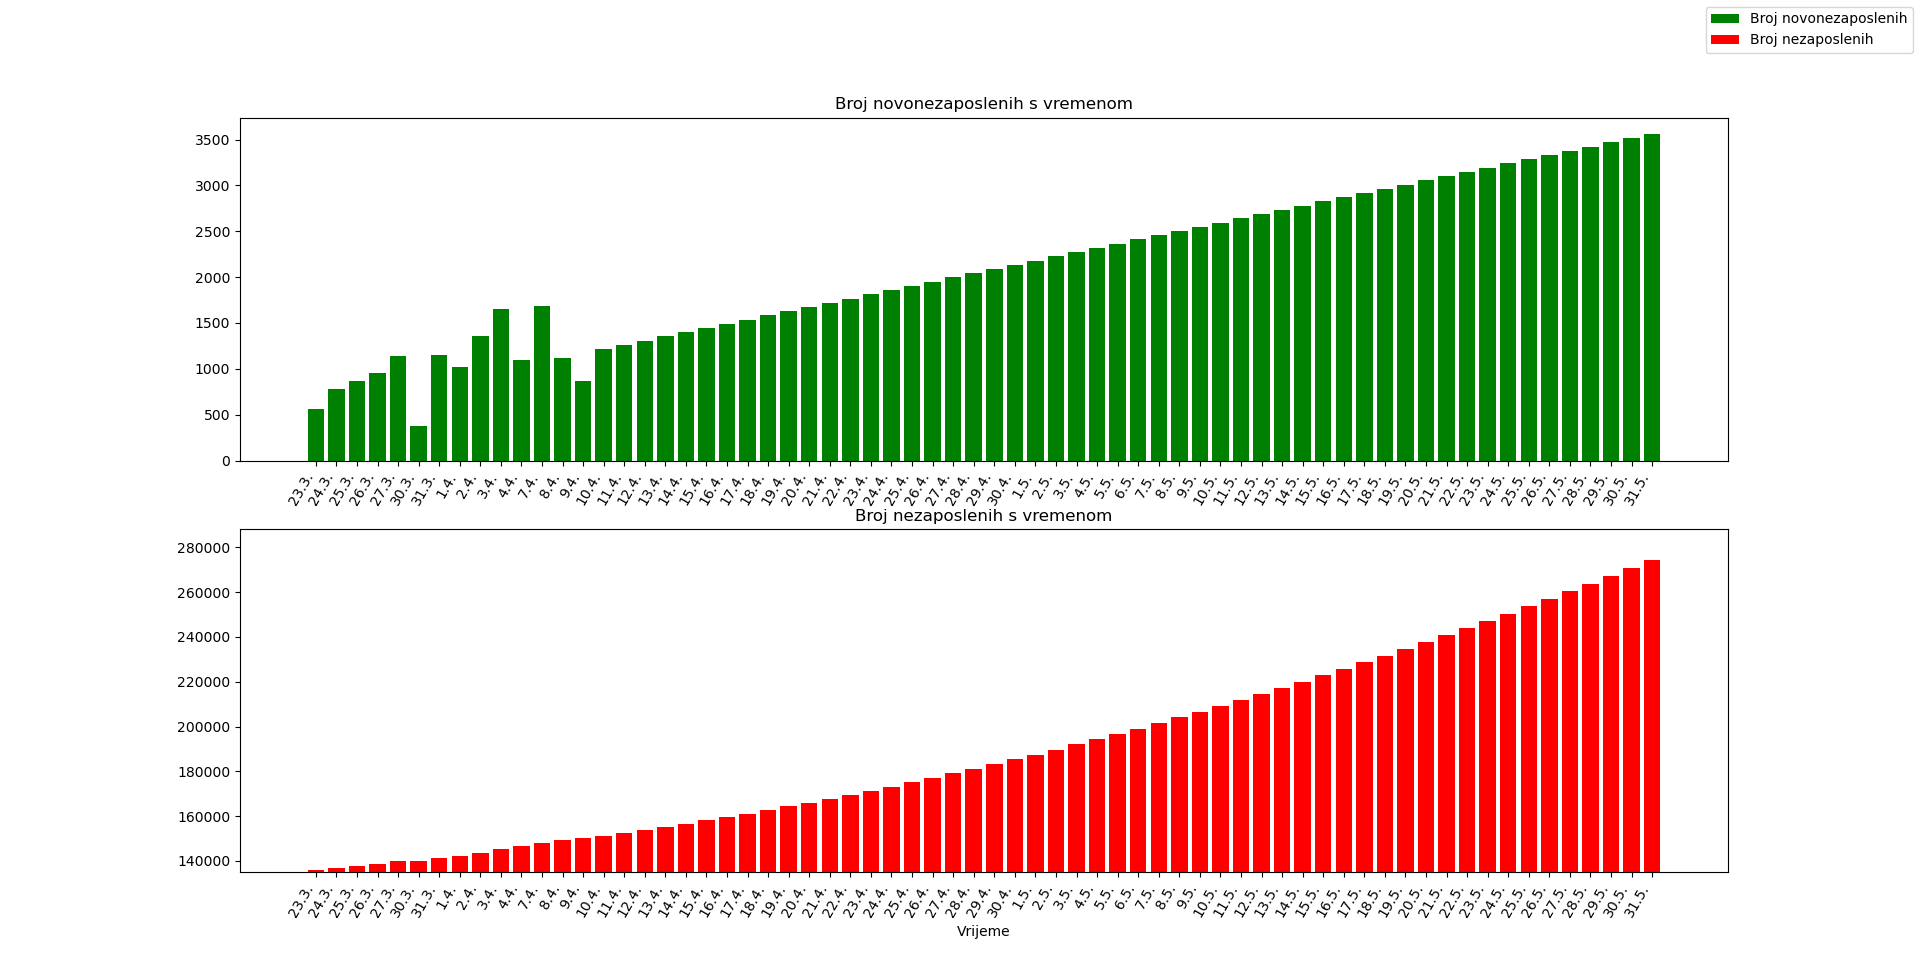
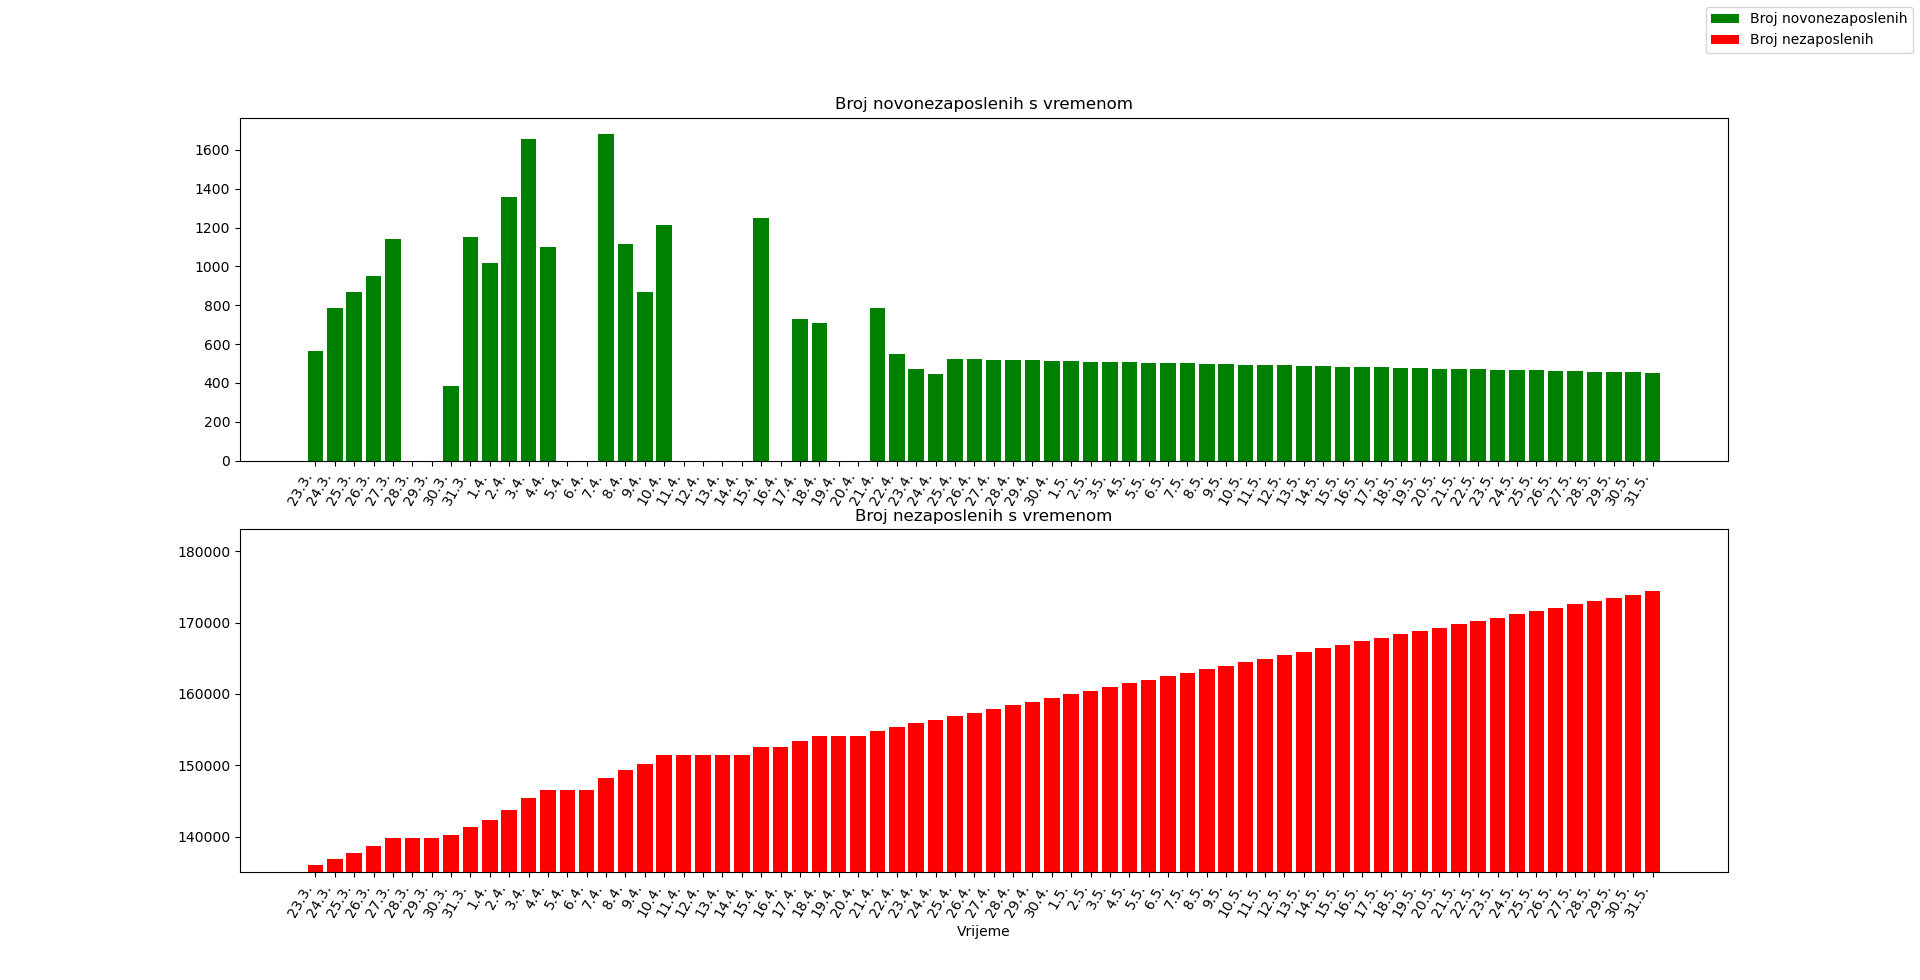
Nezaposlenost update 10.4.

diff --git a/nezaposlenost.py b/nezaposlenost.py
@@ -1,13 +1,15 @@
 import matplotlib.pyplot as plt
 import matplotlib as mpl
 
-datumi = ['23.3.', '24.3.', '25.3.', '26.3.', '27.3.', '30.3.', '31.3.', '1.4.', '2.4.', '3.4.', '4.4.', '7.4.', '8.4.',
-          '9.4.', '10.4.', '11.4.', '12.4.', '13.4.', '14.4.', '15.4.', '16.4.', '17.4.', '18.4.', '19.4.', '20.4.',
-          '21.4.', '22.4.', '23.4.', '24.4.', '25.4.', '26.4.', '27.4.', '28.4.', '29.4.', '30.4.', '1.5.', '2.5.',
+datumi = ['23.3.', '24.3.', '25.3.', '26.3.', '27.3.', '28.3.', '29.3.', '30.3.', '31.3.', '1.4.', '2.4.', '3.4.',
+          '4.4.', '5.4.', '6.4.', '7.4.', '8.4.', '9.4.', '10.4.', '11.4.', '12.4.', '13.4.', '14.4.', '15.4.', '16.4.',
+          '17.4.', '18.4.', '19.4.', '20.4.', '21.4.', '22.4.', '23.4.', '24.4.', '25.4.', '26.4.', '27.4.', '28.4.',
+          '29.4.', '30.4.', '1.5.', '2.5.',
           '3.5.', '4.5.', '5.5.', '6.5.', '7.5.', '8.5.', '9.5.', '10.5.', '11.5.', '12.5.', '13.5.', '14.5.', '15.5.',
           '16.5.', '17.5.', '18.5.', '19.5.', '20.5.', '21.5.', '22.5.', '23.5.', '24.5.', '25.5.', '26.5.', '27.5.',
           '28.5.', '29.5.', '30.5.', '31.5.']
-broj_novonez = [565, 784, 867, 951, 1140, 382, 1153, 1019, 1358, 1658, 1098, 1682, 1115, 867, 1215]
+broj_novonez = [565, 784, 867, 951, 1140, 0, 0, 382, 1153, 1019, 1358, 1658, 1098, 0, 0, 1682, 1115, 867, 1215, 0, 0, 0,
+                0, 1249, 0, 728, 711, 0, 0, 787, 550, 474, 447, 524]
 osn_broj_nez = 136071
 broj_nez = [136071]
 
@@ -33,13 +35,14 @@ prosjek_novonezaposlenih = sum(diffs) / len(diffs)
 print(f"Prosjek novonezaposlenih na dan: {prosjek_novonezaposlenih}")
 
 for i in range(broj_datuma-1):
+    print(f"Dan: {datumi[i]} | Nezaposlenih: {broj_nez[i]}")
     last_value = broj_novonez[-1]
     new_value = last_value + prosjek_novonezaposlenih
     new_nez = broj_nez[-1] + new_value
     broj_novonez.append(int(new_value))
     broj_nez.append(int(new_nez))
 
-print(broj_nez)
+
 fig, (plot1, plot2) = plt.subplots(nrows=2, ncols=1, figsize=(19.2, 9.8))
 
 plot1.bar(datumi, broj_novonez[:broj_datuma], label="Broj novonezaposlenih", color="green")
